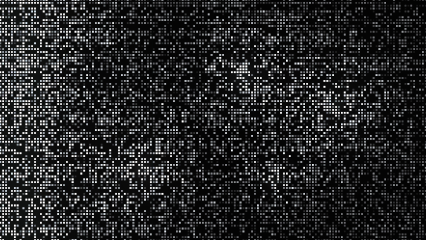
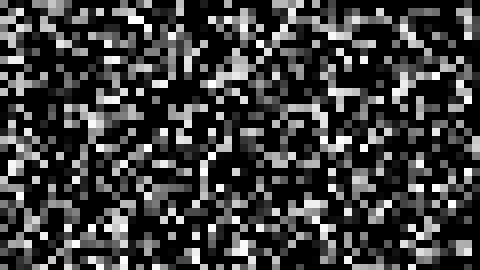
🐛 fix: some patterns updated with new ones

diff --git a/CHANGELOG.rst b/CHANGELOG.rst
@@ -4,6 +4,7 @@ CHANGELOG
 UNRELEASED
 ----------
 
+* 🐛 fix: some patterns updated with new ones
 
 2.0.0 (2022-03-29)
 ------------------
